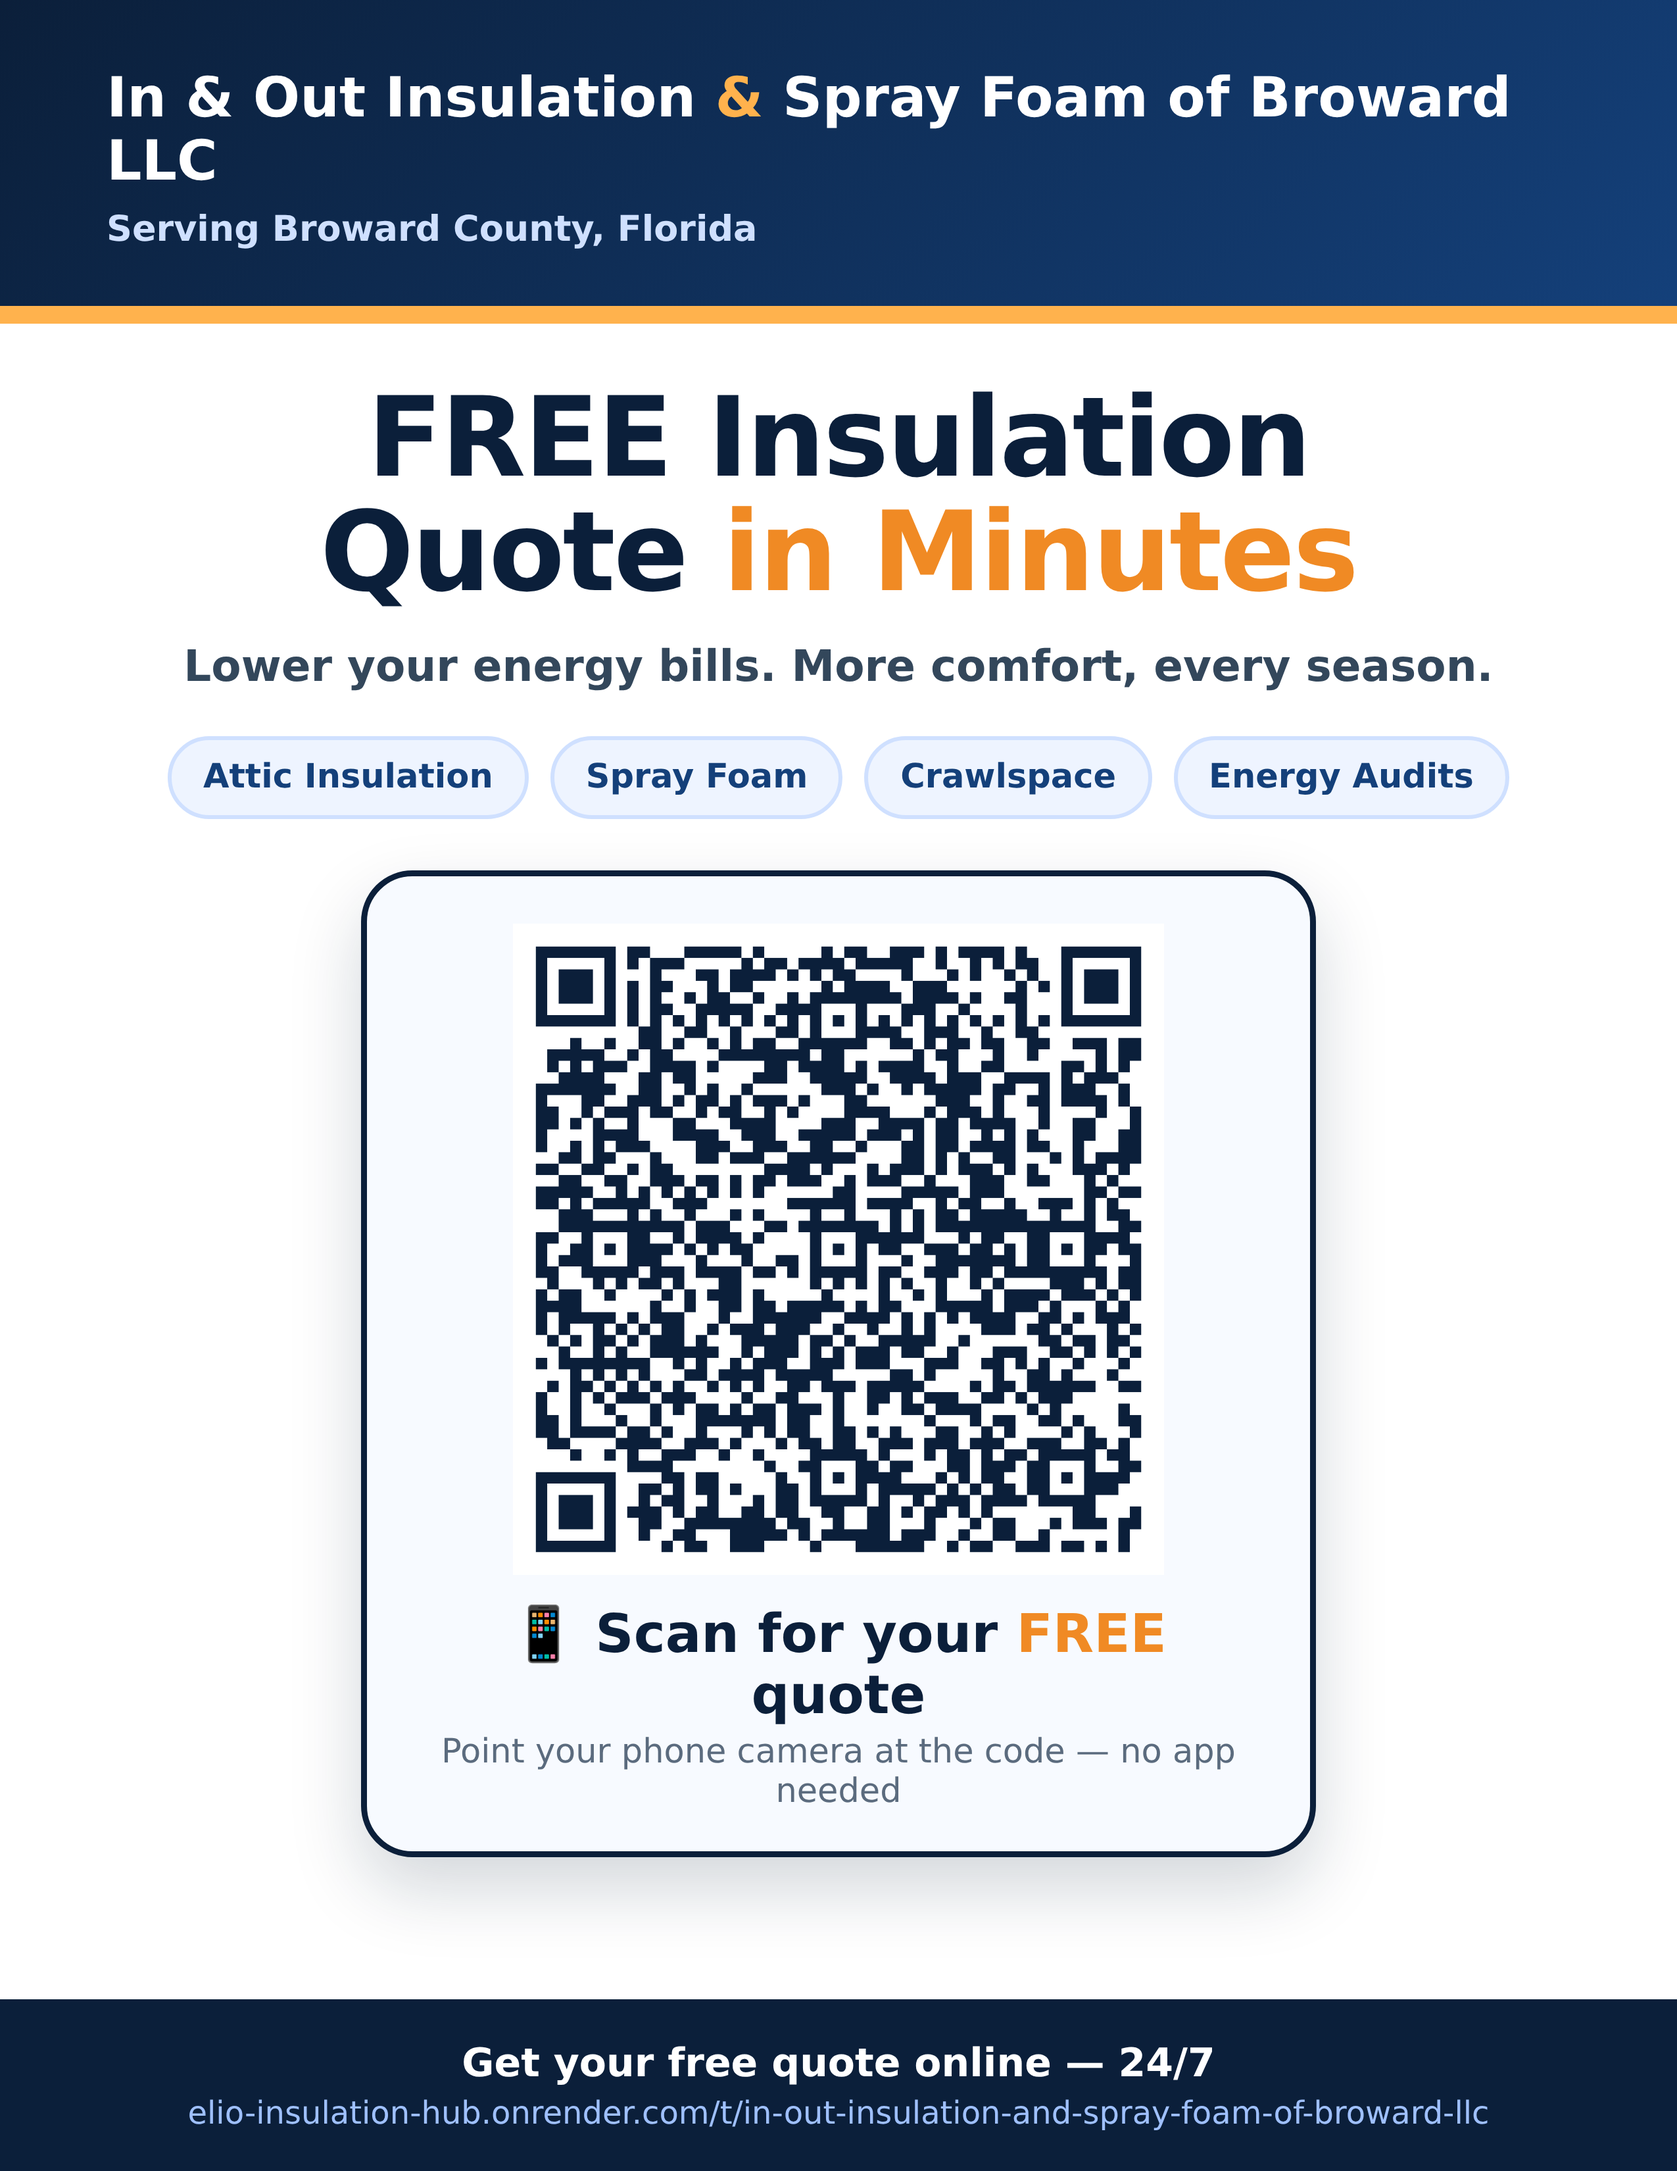
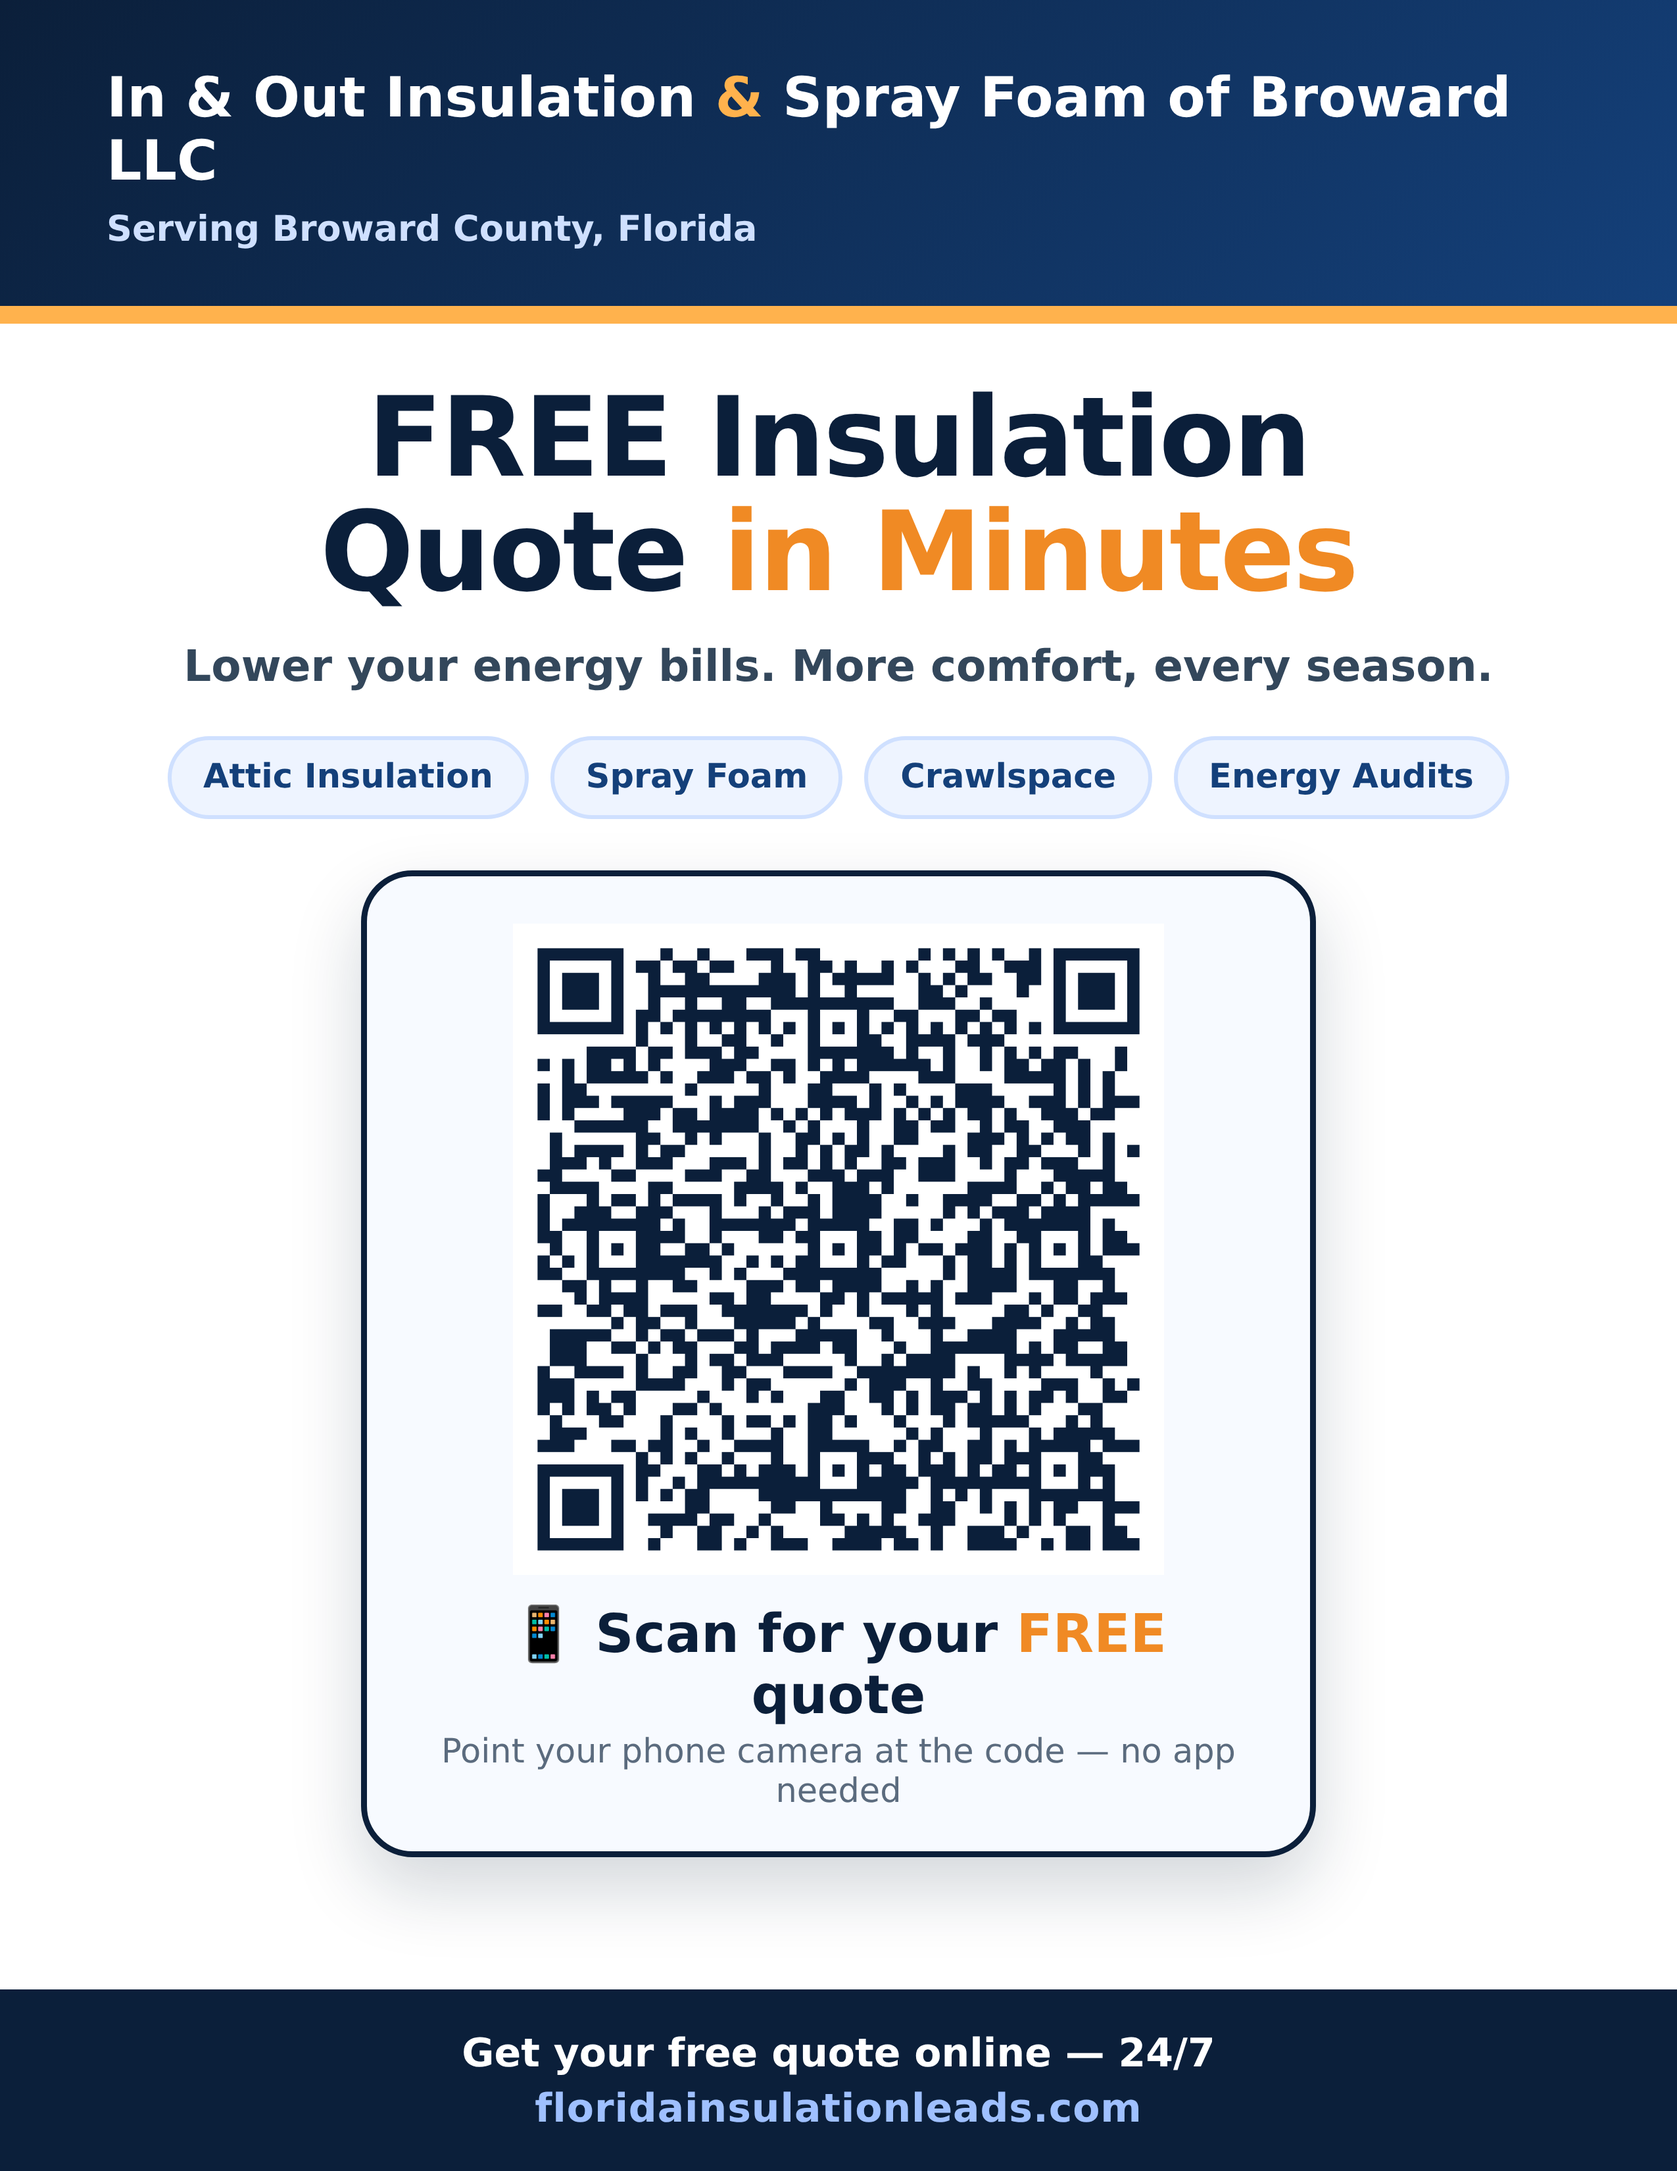
Point bot + flyer/QR/social image at floridainsulationleads.com domain
Claude-Session: https://claude.ai/code/session_01McpQP5NsXFiofFsFNHJzWi

diff --git a/saas/social_bot.py b/saas/social_bot.py
@@ -31,11 +31,11 @@ import time
 import urllib.parse
 import urllib.request
 
-DEFAULT_LEAD = ("https://elio-insulation-hub.onrender.com/t/"
+DEFAULT_LEAD = ("https://floridainsulationleads.com/t/"
                 "in-out-insulation-and-spray-foam-of-broward-llc")
 # Instagram requires a JPEG with aspect ratio between 4:5 and 1.91:1, so we use
 # a square JPEG (works for Facebook too). The tall PNG flyer is print-only.
-DEFAULT_IMAGE = "https://elio-insulation-hub.onrender.com/static/social.jpg"
+DEFAULT_IMAGE = "https://floridainsulationleads.com/static/social.jpg"
 
 SERVICES = [
     ("attic insulation", "beat the Florida heat and lower your cooling bills"),
